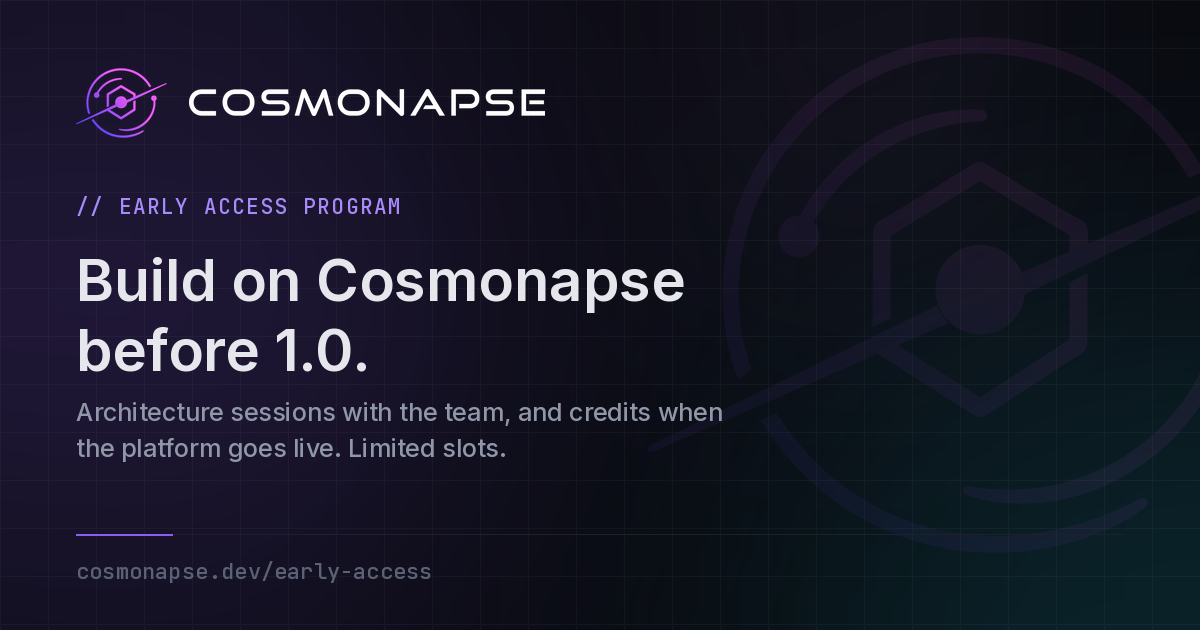
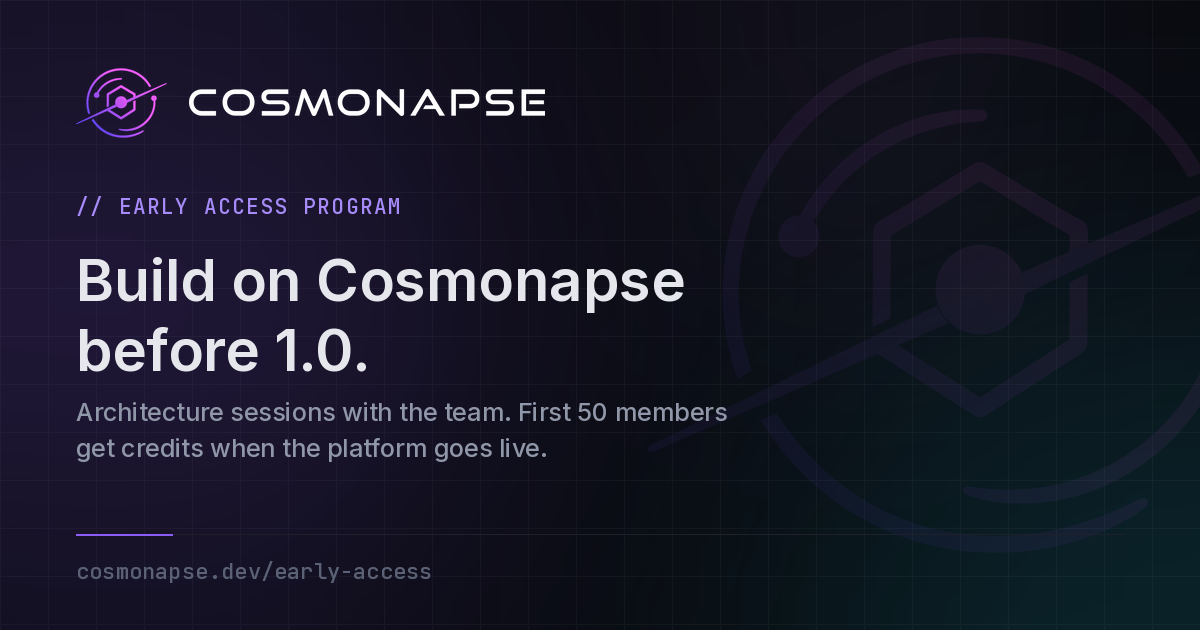
50

Changed region(s): [[0.0617, 0.6937, 0.4625, 0.7238], [0.4317, 0.6333, 0.6167, 0.6937]]

diff --git a/app/early-access/page.tsx b/app/early-access/page.tsx
@@ -6,7 +6,7 @@ import { EARLY_ACCESS_FORM_URL } from "@/lib/early-access";
 export const metadata: Metadata = pageMetadata({
   title: "Early Access Program",
   description:
-    "Build on Cosmonapse before 1.0. Early access members get architecture sessions with the team and credits or discounts on Cosmonapse Cloud when it goes live. Limited slots, no cost, no exclusivity.",
+    "Build on Cosmonapse before 1.0. Early access members get architecture sessions with the team, and the first 50 accepted members get credits and a standing discount on Cosmonapse Cloud when it goes live. No cost, no exclusivity.",
   path: "/early-access",
   image: "/og/early-access.png",
   keywords: [
@@ -23,9 +23,9 @@ export const metadata: Metadata = pageMetadata({
 /** What a member gets out of it. */
 const PERKS = [
   {
-    name: "Credits and discounts at launch",
+    name: "Credits and discounts - first 50 only",
     body:
-      "Core, Genesis and Prism are Apache 2.0 and free to run locally - that does not change. Cosmonapse Cloud is the part that will eventually be paid. Everyone who joins the programme is recorded now and gets launch credits plus a standing discount when Cloud goes live.",
+      "Core, Genesis and Prism are Apache 2.0 and free to run locally - that does not change. Cosmonapse Cloud is the part that will eventually be paid, and the first 50 members accepted into the programme get launch credits plus a standing discount on it. Member 51 onward is welcome and gets everything else; the concessions are capped at 50 so they mean something.",
   },
   {
     name: "Architecture sessions with the team",
@@ -63,7 +63,7 @@ const STEPS = [
     n: "04",
     title: "Credits land when the platform does",
     body:
-      "Your slot and join date are on record from the day you are accepted. When Cosmonapse Cloud launches, the credits and the discount are applied to your account - no re-application, no window to miss.",
+      "Your slot, join date and member number are on record from the day you are accepted. If your number is 50 or below, the credits and the standing discount are applied when Cosmonapse Cloud launches - no re-application, no window to miss.",
   },
 ];
 
@@ -95,7 +95,7 @@ const FAQ = [
   },
   {
     q: "How firm are the credits?",
-    a: "It is a commitment we are putting in writing on a public page, not a signed contract - and we will not attach a date to it, because 1.0.0 and Cloud do not have one. What is fixed is the order: everyone who joins during early access is in before anyone who signs up on launch day.",
+    a: "It is a commitment we are putting in writing on a public page, not a signed contract - and we will not attach a date to it, because 1.0.0 and Cloud do not have one. What is fixed is who qualifies: the first 50 members accepted, in the order they were accepted, and that list stops at 50.",
   },
   {
     q: "Do I have to build on Cosmonapse?",
@@ -106,8 +106,8 @@ const FAQ = [
     a: "You do. No NDA, no exclusivity, no claim on your code. You are free to talk publicly about the sessions, the product and where it fell short.",
   },
   {
-    q: "How many slots are there?",
-    a: "Enough that the sessions stay real. Sessions are run by the people writing the code, so intake is limited by how many hours exist in a week - which is why the form asks what you are building rather than just for an email.",
+    q: "What happens after the 50 are taken?",
+    a: "The programme stays open and the sessions keep running - they are limited by how many hours exist in a week, not by a headcount. What closes at 50 is the credits and the launch discount. Applying early is the only way to be inside that number, which is also why the form asks what you are building rather than just for an email.",
   },
   {
     q: "What happens to my form response?",
@@ -121,12 +121,17 @@ export default function EarlyAccessPage() {
       <header className="page-header">
         <div className="container">
           <div className="page-eyebrow">// Early Access Program</div>
+          <div className="badge">
+            <span className="dot" />
+            First 50 members only
+          </div>
           <h1 className="page-title">Build on Cosmonapse before 1.0.</h1>
           <p className="page-sub">
             Cosmonapse is a research preview being taken to a stable 1.0.0. Early access is for
             people pointing it at a real problem while that happens. You get working sessions with
-            the team on your architecture, and credits plus a standing discount on Cosmonapse Cloud
-            when it goes live. Free to join, limited slots, subject to availability.
+            the team on your architecture, and the first 50 members accepted also get credits plus
+            a standing discount on Cosmonapse Cloud when it goes live. Free to join, sessions
+            subject to availability.
           </p>
           <div className="hero-ctas" style={{ marginTop: 28 }}>
             <a
@@ -151,8 +156,9 @@ export default function EarlyAccessPage() {
           <h2 className="section-title">Sessions now, credits at launch.</h2>
           <p className="section-sub">
             Two things are on the table. One is worth something today; the other is worth something
-            the day the platform ships. Both are aimed at the same person - someone building a
-            system that is hard enough to be worth designing properly.
+            the day the platform ships, and only to the first 50 through the door. Both are aimed
+            at the same person - someone building a system that is hard enough to be worth
+            designing properly.
           </p>
           <div className="grid-3" style={{ marginTop: 32 }}>
             {PERKS.map((p) => (
@@ -272,7 +278,8 @@ export default function EarlyAccessPage() {
                 color: "var(--text-faint)",
               }}
             >
-              Slots are limited and sessions are subject to availability. Prefer email?{" "}
+              Concessions are capped at the first 50 members; sessions are subject to
+              availability. Prefer email?{" "}
               <a href="mailto:dev@cosmonapse.com" className="inline-link">
                 dev@cosmonapse.com
               </a>

diff --git a/app/page.tsx b/app/page.tsx
@@ -303,8 +303,8 @@ export default function HomePage() {
               <p>
                 We run architecture sessions with early adopters on the system they are actually
                 building - free, framework-agnostic, and with the people writing the protocol.
-                Members also get credits and a standing discount on Cosmonapse Cloud when it
-                launches. Limited slots, subject to availability.
+                The first 50 members accepted also get credits and a standing discount on
+                Cosmonapse Cloud when it launches.
               </p>
             </div>
             <div className="ea-band-actions">

diff --git a/scripts/make-og.py b/scripts/make-og.py
@@ -212,8 +212,8 @@ CARDS = {
         eyebrow="// EARLY ACCESS PROGRAM",
         headline=["Build on Cosmonapse", "before 1.0."],
         sub=[
-            "Architecture sessions with the team, and credits when",
-            "the platform goes live. Limited slots.",
+            "Architecture sessions with the team. First 50 members",
+            "get credits when the platform goes live.",
         ],
         url="cosmonapse.dev/early-access",
     ),
